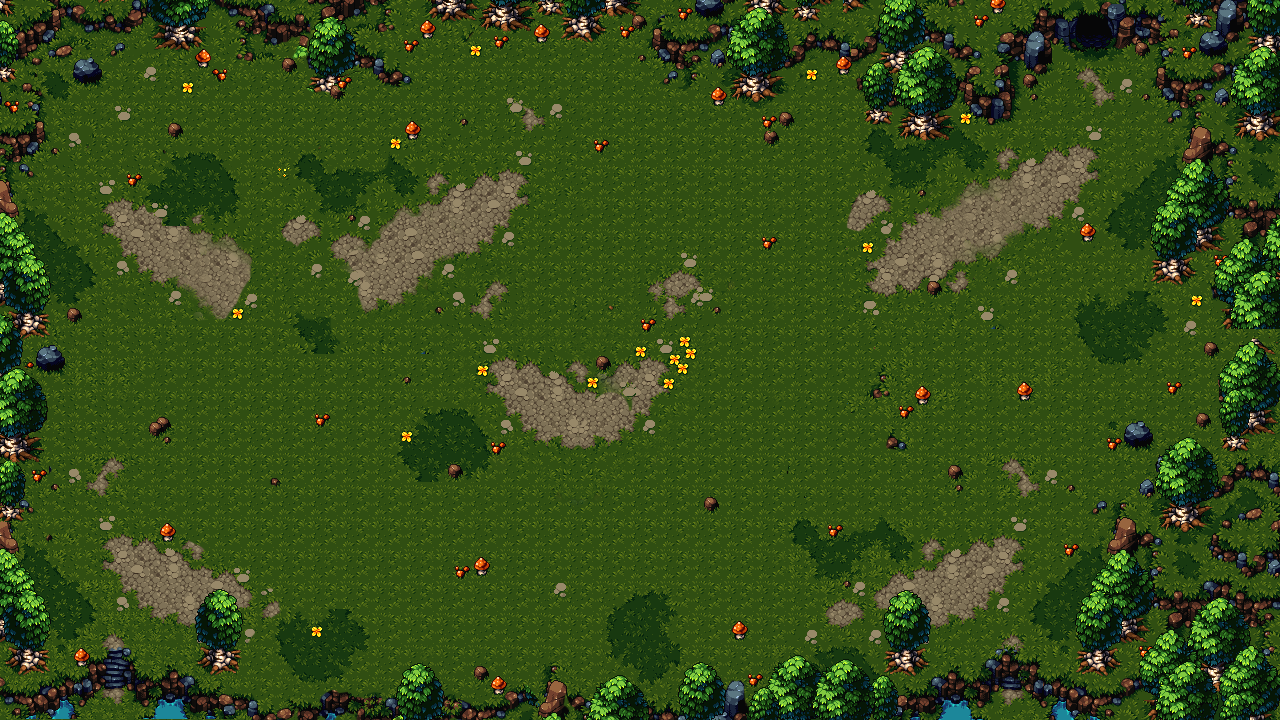
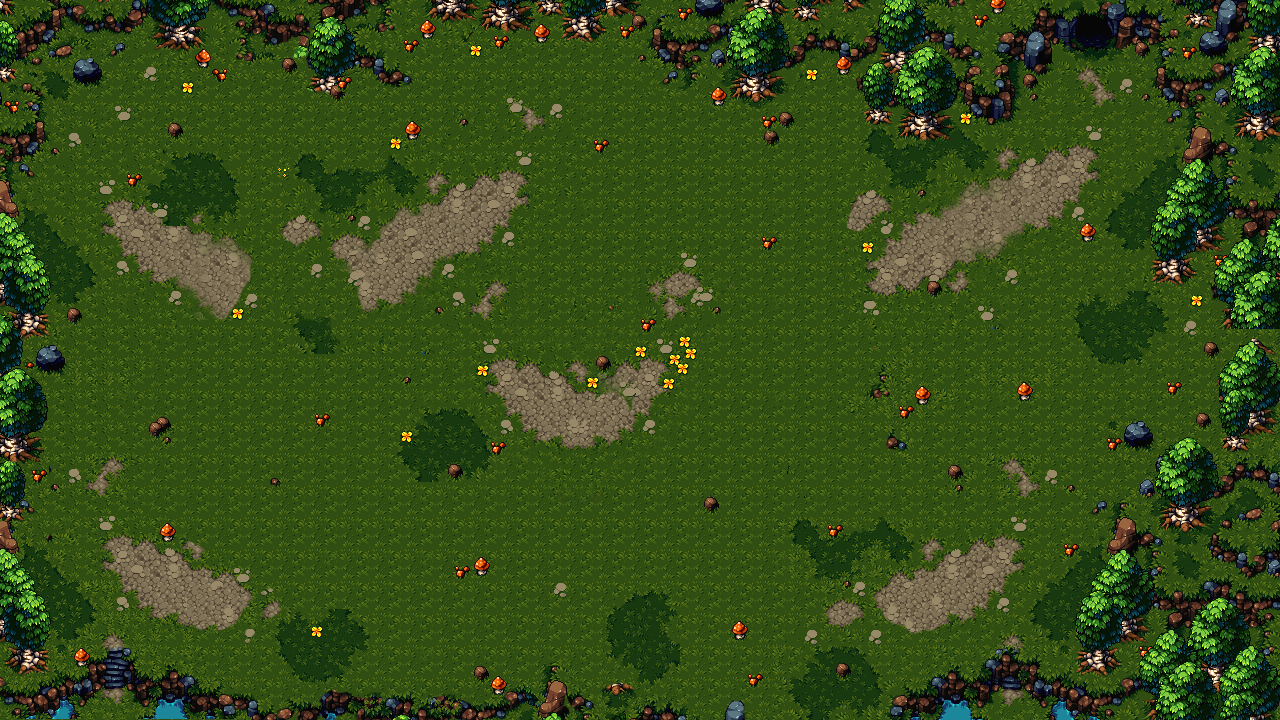
создание невидимого статического объкта + верная отрисовка деревьев вокруг карты

Changed region(s): [[0.4375, 0.7944, 0.75, 1.0], [0.125, 0.7944, 0.1875, 0.9472], [0.3125, 0.9167, 0.3438, 1.0]]

diff --git a/src/main/java/ru/game/pattern/controller/GameControllerImpl.java b/src/main/java/ru/game/pattern/controller/GameControllerImpl.java
@@ -3,6 +3,7 @@ package ru.game.pattern.controller;
 import ru.game.pattern.model.*;
 import ru.game.pattern.model.Cursor;
 import ru.game.pattern.model.playes.*;
+import ru.game.pattern.model.staticObjects.InvisibleStaticObject;
 import ru.game.pattern.model.staticObjects.Stone;
 import ru.game.pattern.view.GameView;
 
@@ -90,6 +91,18 @@ public class GameControllerImpl implements GameController, Runnable{
         Stone stone = new Stone(new Point(500, 500));
         allGameObjects.add(stone);
         physicalGameObjects.add(stone);
+
+        InvisibleStaticObject invisibleStaticObject = new InvisibleStaticObject(new Point(1100, 650), 20);
+        allGameObjects.add(invisibleStaticObject);
+        physicalGameObjects.add(invisibleStaticObject);
+
+        invisibleStaticObject = new InvisibleStaticObject(new Point(1125, 625), 20);
+        allGameObjects.add(invisibleStaticObject);
+        physicalGameObjects.add(invisibleStaticObject);
+
+        invisibleStaticObject = new InvisibleStaticObject(new Point(1150, 600), 20);
+        allGameObjects.add(invisibleStaticObject);
+        physicalGameObjects.add(invisibleStaticObject);
     }
 
     @Override

diff --git a/src/main/java/ru/game/pattern/model/staticObjects/StaticPhysicalGameObject.java b/src/main/java/ru/game/pattern/model/staticObjects/StaticPhysicalGameObject.java
@@ -31,7 +31,9 @@ public class StaticPhysicalGameObject extends PhysicalGameObject {
         super(Integer.MAX_VALUE);
         this.location = location;
         this.territoryRadius = territoryRadius;
-        this.image = ImageIO.read(new File(imagePath));
+        if(imagePath!=null) {
+            this.image = ImageIO.read(new File(imagePath));
+        }
         this.imageSize = imageSize;
     }
 
@@ -62,7 +64,9 @@ public class StaticPhysicalGameObject extends PhysicalGameObject {
 
     @Override
     public void draw(Graphics2D g) {
-        g.drawImage(image, location.x - imageSize.x/2, location.y - imageSize.y/2, null);
+        if(image!=null && imageSize !=null) {
+            g.drawImage(image, location.x - imageSize.x / 2, location.y - imageSize.y / 2, null);
+        }
         if(printTerritoryRadius){
             g.drawOval(location.x - territoryRadius, location.y - territoryRadius, 2 * territoryRadius, 2 * territoryRadius);
         }

diff --git a/src/main/java/ru/game/pattern/model/GameBackground.java b/src/main/java/ru/game/pattern/model/GameBackground.java
@@ -25,12 +25,22 @@ public class GameBackground extends GameObject {
 
     private BufferedImage image = null;
 
+    private BufferedImage imageTree = null;
+
     private String BACKGROUND_IMAGE_PATH = Property.RESOURSES_PATH + "plane_lite_80.png";
+
+    private String BACKGROUND_IMAGE_PATH_THREE = Property.RESOURSES_PATH + "plane_lite_81.png";
 
 
     public GameBackground(WindowInfo windowInfo) throws IOException {
         this.windowInfo = windowInfo;
         image = ImageIO.read(new File(BACKGROUND_IMAGE_PATH));
+        imageTree = ImageIO.read(new File(BACKGROUND_IMAGE_PATH_THREE));
+    }
+
+    @Override
+    public void drawSpecialAfterAll(Graphics2D g) {
+        g.drawImage(imageTree, 0, 0, null);
     }
 
     @Override

diff --git a/src/main/java/ru/game/pattern/model/staticObjects/InvisibleStaticObject.java b/src/main/java/ru/game/pattern/model/staticObjects/InvisibleStaticObject.java
@@ -1,0 +1,16 @@
+package ru.game.pattern.model.staticObjects;
+
+import java.awt.*;
+import java.io.IOException;
+
+/**
+ * Created by Uskov Dmitry on 14.06.2016.
+ */
+public class InvisibleStaticObject extends StaticPhysicalGameObject {
+
+    public InvisibleStaticObject(Point location, int territoryRadius) throws IOException {
+        super(location, territoryRadius, null, null);
+        printTerritoryRadius = true;
+    }
+
+}

diff --git a/src/main/java/ru/game/pattern/view/GameView.java b/src/main/java/ru/game/pattern/view/GameView.java
@@ -137,6 +137,7 @@ public class GameView implements  Runnable{
             for(GameObject o : gameObjectList){
                 o.drawSpecialAfterAll(g); //Отрисовка объектов из контроллера
             }
+            gameController.getBackgound().drawSpecialAfterAll(g);
             gameController.getGameBoard().draw(g);
             gameDraw();
         }
